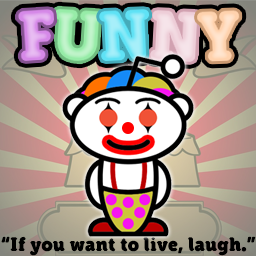
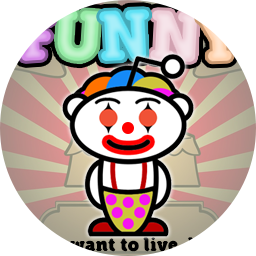
Make subreddit images uniform

diff --git a/src/components/subreddits/SubReddits.js b/src/components/subreddits/SubReddits.js
@@ -3,21 +3,21 @@ import "./SubReddits.css";
 import "./SubReddits-mobile.css";
 import askreddit from "./assets/askreddit.png";
 import funny from "./assets/funny.png";
+import mildlyinfuriating from "./assets/mildlyinfuriating.png";
+import interestingasfuck from "./assets/interestingasf.png";
+import gaming from "./assets/gaming.png";
+import minecraft from "./assets/minecraft.png";
+import movies from "./assets/movies.png";
 
 const SubReddits = () => {
   const subReddits = {
     AskReddit: askreddit,
-    mildyinfuriating:
-      "https://styles.redditmedia.com/t5_2ubgg/styles/communityIcon_lkxajjefezh51.png?width=256&v=enabled&s=e9f08e5f20f9c160ae08bda2cfd54ad5af270323",
-    interestingasfuck:
-      "https://styles.redditmedia.com/t5_2qhsa/styles/communityIcon_5v3bepmshpg81.png?width=256&v=enabled&s=2914ade77dd2525043d2a30b44aad9ea0a38c0b9",
-    gaming:
-      "https://styles.redditmedia.com/t5_2qh03/styles/communityIcon_1isvxgkk7hw51.png?width=256&v=enabled&s=00f6d887500614cf4e45adc847b7ab075a8170a6",
-    Minecraft:
-      "https://b.thumbs.redditmedia.com/rwN0al9P6nYhGSQO-yIJb-FyF5xg-c2v61zjMom4c4E.png",
-    movies:
-      "https://styles.redditmedia.com/t5_2qh3s/styles/communityIcon_yq9ah8eniar81.jpg?width=256&format=pjpg&v=enabled&s=8f37365c563a8960ff102217387d22923856df76",
-    funny: funny,
+    Mildlyinfuriating: mildlyinfuriating,
+    Interestingasfuck: interestingasfuck,
+    Gaming: gaming,
+    Minecraft: minecraft,
+    Movies: movies,
+    Funny: funny,
   };
 
   const handleClick = ({ target }) => {
